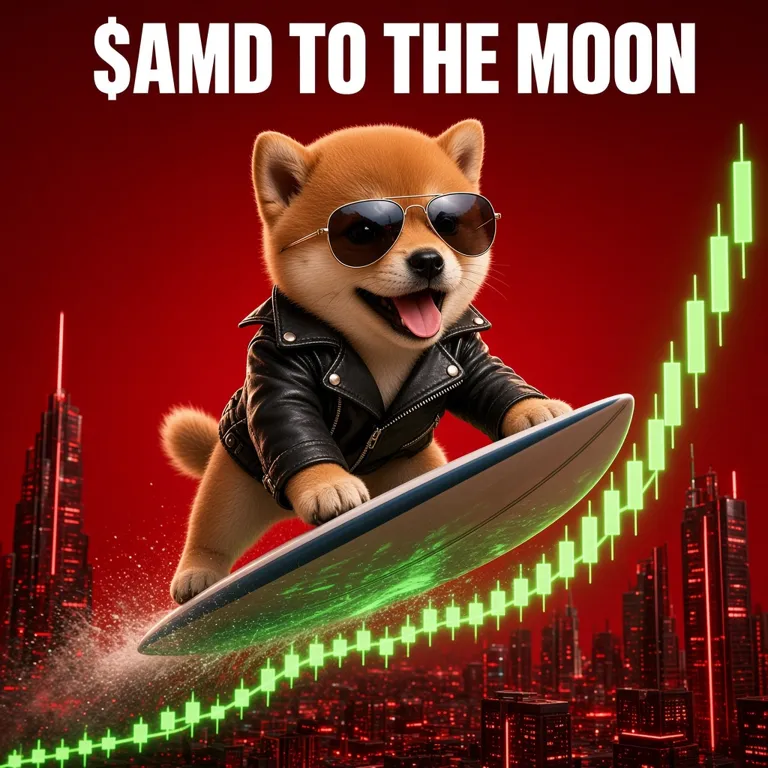
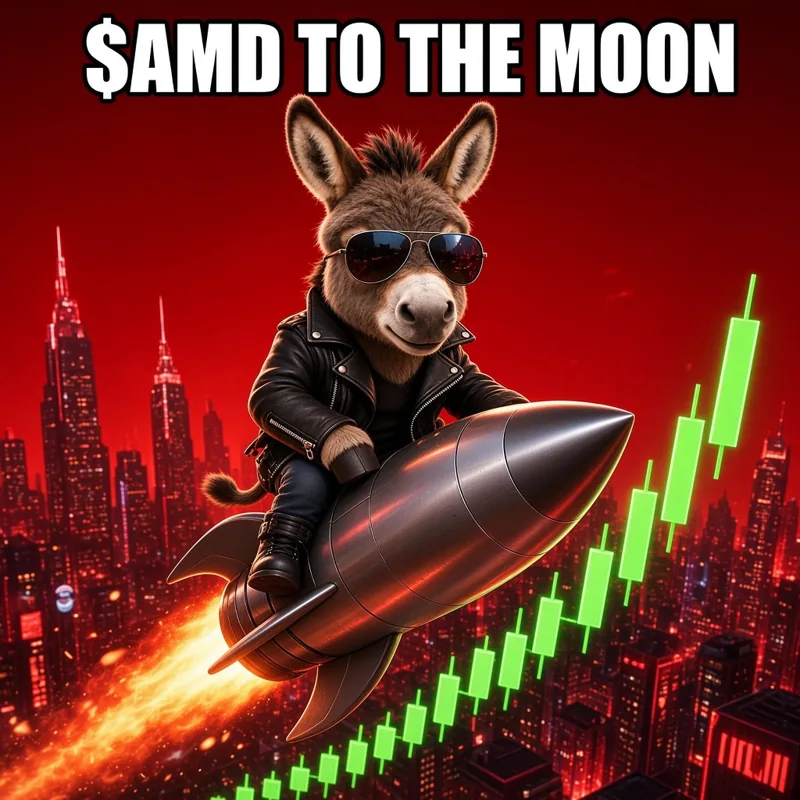
amd: replace dog images with A Meme Donkey characters and memes

diff --git a/amd/index.html b/amd/index.html
@@ -836,9 +836,9 @@ html.reduced-motion .grain,html.reduced-motion .speedlines{animation:none}
     <div class="drive-tunnel" aria-hidden="true"></div>
     <div class="drive-ring" aria-hidden="true"><i></i><i></i><i></i></div>
     <div class="speed-zip" aria-hidden="true"><i></i><i></i><i></i></div>
-    <img class="gchar dpose p1" src="assets/char4.webp" alt="A Meme Donkey engines idle" loading="lazy">
-    <img class="gchar dpose p2" src="assets/char1.webp" alt="A Meme Donkey accelerating" loading="lazy">
-    <img class="gchar dpose p3" src="assets/char2.webp" alt="A Meme Donkey through the portal" loading="lazy">
+    <img class="gchar dpose p1" src="assets/char5.webp" alt="A Meme Donkey engines idle" loading="lazy">
+    <img class="gchar dpose p2" src="assets/char7.webp" alt="A Meme Donkey accelerating" loading="lazy">
+    <img class="gchar dpose p3" src="assets/char6.webp" alt="A Meme Donkey through the portal" loading="lazy">
     <div class="meter">
       <p class="mono">SPEED</p>
       <div class="meter-val" id="meterVal">0</div>
@@ -857,7 +857,7 @@ html.reduced-motion .grain,html.reduced-motion .speedlines{animation:none}
   <h2 class="h2 words">AMD so far so good...moving up tech nicely</h2>
   <div class="about-grid">
     <div class="glass"><div class="g-ic g-ring" aria-hidden="true"><i></i><i></i><i></i></div><h3>Ring Portal</h3><p>Every candle passes through the ring. Every ring makes $AMD go faster.</p></div>
-    <div class="glass"><div class="g-ic"><img class="gchar" src="assets/char3.webp" alt="" loading="lazy" width="110" height="110"></div><h3>Community Fueled</h3><p>No VC rockets. The pack is the fuel and the pack sets the pace.</p></div>
+    <div class="glass"><div class="g-ic"><img class="gchar" src="assets/char8.webp" alt="" loading="lazy" width="110" height="110"></div><h3>Community Fueled</h3><p>No VC rockets. The pack is the fuel and the pack sets the pace.</p></div>
     <div class="glass"><div class="g-ic g-wag"><img src="assets/logo.png" alt="" loading="lazy" width="110" height="110"></div><h3>Always Wagging</h3><p>Pure meme energy on Solana. Tail up, vibes maxed, no brakes.</p></div>
   </div>
 </section>
